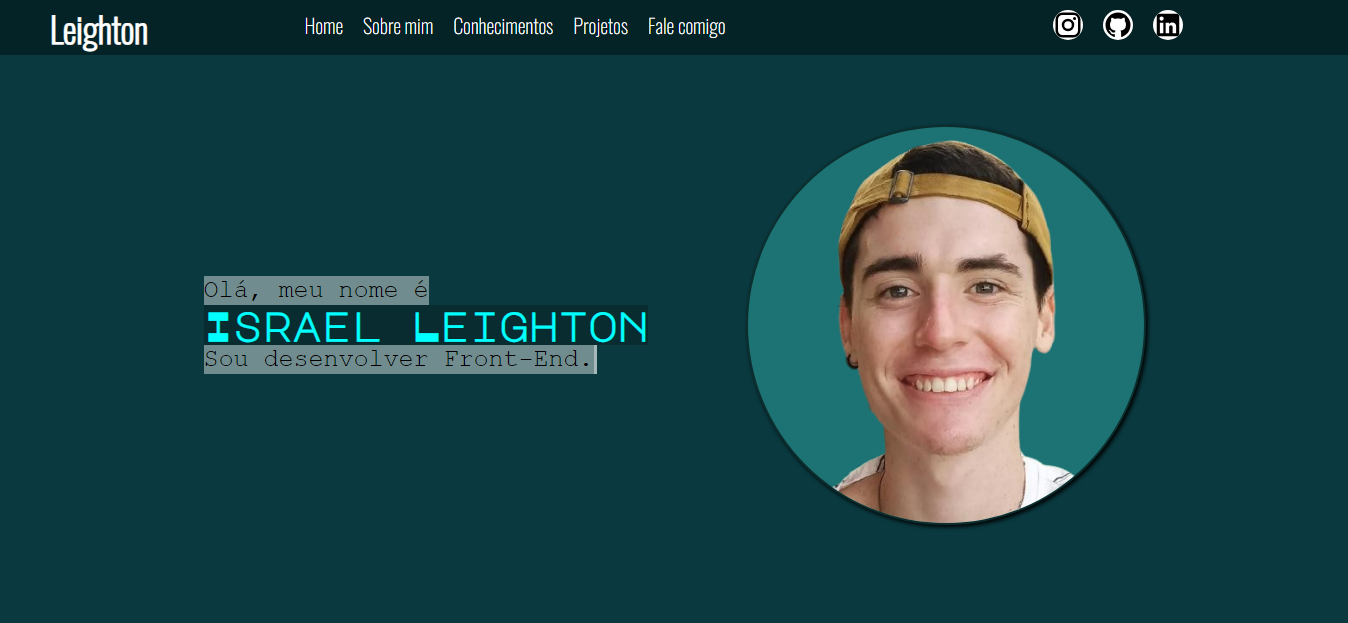
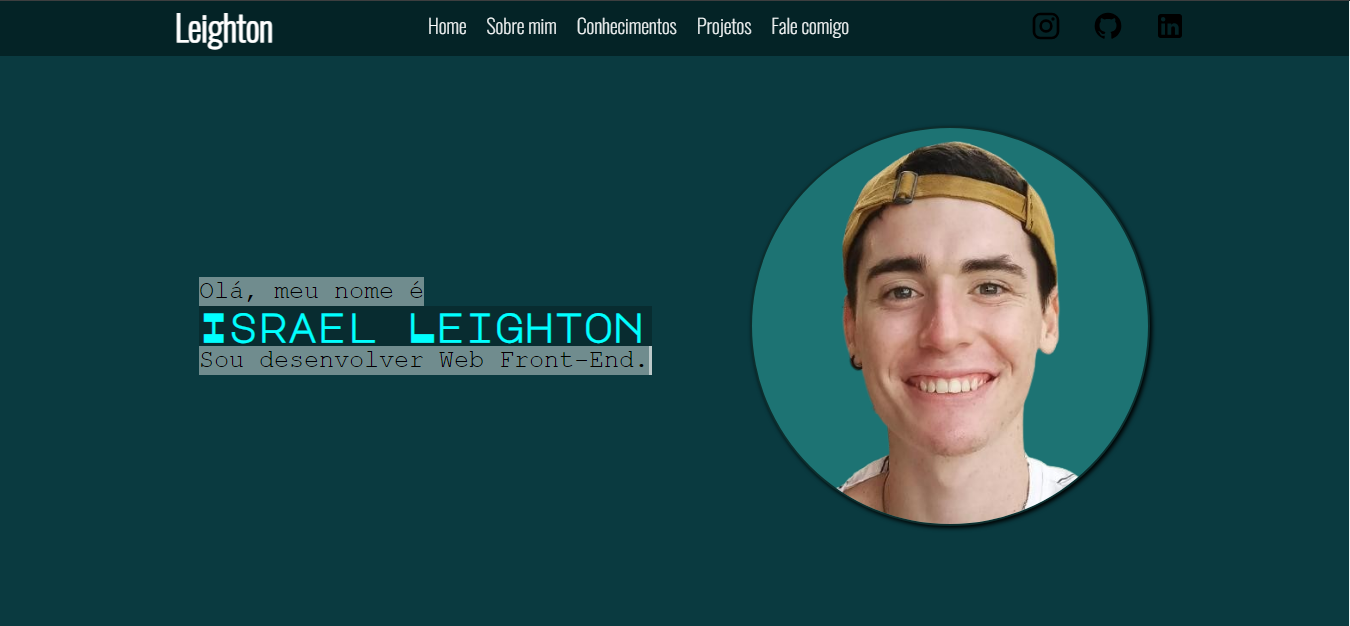
adição da seção de "fale comigo" e ajustes no codigo

diff --git a/index.html b/index.html
@@ -4,15 +4,15 @@
     <meta charset="UTF-8">
     <meta http-equiv="X-UA-Compatible" content="IE=edge">
     <meta name="viewport" content="width=device-width, initial-scale=1.0">
-    <title>Porifólio Leighton</title>
+    <title>Porifólio - Israel   Leighton</title>
     <link href="https://fonts.googleapis.com/icon?family=Material+Icons" rel="stylesheet">
     <link href="https://cdn.jsdelivr.net/npm/@mdi/font@7.2.96/css/materialdesignicons.min.css">
+    <link rel="stylesheet" href="https://fonts.googleapis.com/css2?family=Material+Symbols+Outlined:opsz,wght,FILL,GRAD@48,400,0,0" />
     <link rel="stylesheet" href="style/style.css">
 </head>
 <body>
     <main>
         <header>
-            
             <menu class="menu">
                 <a href="#home" id="logo2">Leighton</a>
                 <nav id="menuBurguer">
@@ -25,9 +25,9 @@
                         <li><a href="#fale_comigo">Fale comigo</a></li>
                     </ul>
                     <ul id="redeSocial">
-                        <li><a href="https://www.instagram.com/israel_leighton/" target="_blank"><img src="images/instagram.svg" alt=""></a></li>
-                        <li><a href="https://github.com/leightonisrael" target="_blank"><img src="images/github.svg" alt="link github"></a></li>
-                        <li><a href="https://br.linkedin.com/in/israel-hall-leighton" target="_blank"> <img src="images/linkedin.svg" alt=""></a></li>
+                        <li><a href="https://www.instagram.com/israel_leighton/" target="_blank"><img id="instagram" src="images/instagram.svg" alt="logo do instagram"></a></li>
+                        <li><a href="https://github.com/leightonisrael" target="_blank"><img id="github" src="images/github.svg" alt="logo do github"></a></li>
+                        <li><a href="https://br.linkedin.com/in/israel-hall-leighton" target="_blank"> <img id="linkedin" src="images/linkedin.svg" alt="logo do linkedin"></a></li>
                     </ul>
                 </nav>
                 <span id="burguer" class="material-icons" onclick="clickMenu()" >menu</span>
@@ -104,12 +104,15 @@
                         <img src="images/portifolio.png" alt="Imagem do meu portifólio pessoal">
                     </div>
                     <div>
-                        <h4> HTML - CSS - JS </h4>
+                        <div id="link-titulo">
+                            <a href="https://github.com/leightonisrael/portifolio" target="_blank"><span class="material-symbols-outlined">code</span></a>
+                            <h4> HTML - CSS - JS </h4>
+                            <a href="https://portifolio-leightonisrael.vercel.app/" target="_blank"><span class="material-symbols-outlined" >visibility</span></a>
+                        </div>
                         <p>Meu portifólio pessoal criado para me apresentar e apresentar alguns de meus projetos.</p>
                     </div>
                 </div>
             
-
             
                 <div id="card">
                     <h3>
@@ -119,7 +122,11 @@
                         <img src="images/login-page.png" alt="Imagem de uma página de login criada por mim.">
                     </div>
                     <div>
-                        <h4> HTML - CSS </h4>
+                        <div id="link-titulo">
+                            <a href="https://github.com/leightonisrael/login-html-css" target="_blank"><span class="material-symbols-outlined">code</span></a>
+                            <h4> HTML - CSS </h4>
+                            <a href="https://leightonisrael.github.io/login-html-css/" target="_blank"><span class="material-symbols-outlined">visibility</span></a>
+                        </div>
                         <p>Página de login criada por mim baseado no projeto do curso de HTML e CSS do Prof. Gustavo Guanabara.</p>
                     </div>
                 </div>
@@ -132,7 +139,11 @@
                         <img src="images/curiosidades.png" alt="Imagem do site de curiosidades do bugdroid">
                     </div>
                     <div>
-                        <h4> HTML - CSS </h4>
+                        <div id="link-titulo">
+                            <a href="https://github.com/leightonisrael/android-html-css" target="_blank"><span class="material-symbols-outlined">code</span></a>
+                            <h4> HTML - CSS </h4>
+                           <a href="https://leightonisrael.github.io/android-html-css/" target="_blank"> <span class="material-symbols-outlined">visibility</span></a>
+                        </div>
                         <p>Página de Curiosidades sobre o Android criada por mim baseado no projeto do curso de HTML e CSS do Prof. Gustavo Guanabara.</p>
                     </div>
                 </div>
@@ -143,10 +154,42 @@
                     <div id="gif">
                     </div>
                     <div>
-                        <p> Aprendizado constante para ser o que eu venero.</p>
+                        <p> Aprendizado constante para virar o que almejo.</p>
                     </div>
                 </div>
             </div>
+        </section>
+
+        <section id="fale_comigo">
+            <div id="contato">
+                <aside>
+                    <h2>Fale comigo!</h2>
+                    <nav>
+                        <a href="mailto: leightonisrael2014@gmail.com" title="Enviar e-mail">
+                            <div id="email">
+                                <img src="images/email.svg" alt="Icone do Email">
+                                <p>
+                                leightonisrael2014@gmail.com
+                                </p>
+                            </div>
+                        </a>
+
+                        <a href="https://t.me/IsraelLeighton" target="_blank">
+                            <div id="telegram">
+                                <img src="images/telegram.svg" alt="Icone do Telegram">
+                                <p>
+                                    Telegram
+                                </p>
+                            </div>
+                        </a>
+                    </nav>
+                </aside>
+                <figure>
+                    <img src="images/celular.png" alt="Celular Imagem">
+                </figure>
+            </div>
+            
+            
         </section>
     </main>
     <script src="script/main.js"></script>

diff --git a/style/style.css b/style/style.css
@@ -96,14 +96,24 @@ body {
 #redeSocial > li > a > img {
     margin-left: 10px;
     margin-right: 10px;
-    background-color: white;
     border-radius: 50%;
 }
-
-#redeSocial > li > a > img:hover {
+#instagram:hover{
     transition: 600ms;
     transform: scale(1.1);
-    background-color: rgb(200, 200, 200);
+    background-color: #405DE6;
+}
+
+#github:hover{
+    transition: 600ms;
+    transform: scale(1.1);
+    background-color: white;
+}
+
+#linkedin:hover {
+    transition: 600ms;
+    transform: scale(1.1);
+    background-color:  #0e76a8 ;
 
 }
 
@@ -388,26 +398,59 @@ to {
     text-shadow: 1px 1px 1px black;
 }
 
-#card > div > h4 {
-    padding-top: 15px;
-    font-size: 25px;
-    text-shadow: 1px 1px 1px black;
-    text-align: center;
-    padding-bottom: 20px;
+#card > div img {
+    padding: 15px;
+    width: 100%;
+    height: 100%;
 }
 
-#card > div >p {
+
+#link-titulo {
+    display: flex;
+    justify-content: space-around;
+    padding-bottom: 10px;
+}
+
+
+#link-titulo h4 {
+    font-size: 20px;
+    text-shadow: 1px 1px 1px black;
+    text-align: center;
+    padding: 10px;
+}
+
+#link-titulo > a{
+    text-decoration: none;
+    color: white;
+    border-radius: 50%;
+    
+}
+
+#link-titulo > a:hover{
+    color: black;
+
+}
+
+#link-titulo > a > span {
+    background-color: #1D7373;
+    padding: 10px;
+    border-radius: 50%;
+    box-shadow: 0px 0px 2px black;
+}
+
+#link-titulo > a > span:hover{
+    background-color: white;
+    transition: 600ms;
+}
+
+
+#card > div > p {
     font-family: Georgia, 'Times New Roman', Times, serif;
     text-align: justify;
     padding-left: 20px;
     padding-right: 20px;
 }
 
-#card > div img {
-    padding: 15px;
-    width: 100%;
-    height: 100%;
-}
 
 #gif { 
     background-image: url('../images/loading.png!bw700');
@@ -419,6 +462,119 @@ to {
 }
 
 
+/*-------------------------------FALE COMIGO-----------------------------*/
+
+#fale_comigo {
+    
+    background-color: #0A3A40;
+    height: 100%;
+    width: 100%;
+    padding-top: 120px;
+    padding-bottom: 120px;
+
+}
+
+#contato {
+    display: flex;
+    flex-wrap: wrap;
+    justify-content: space-around;
+    gap: 100px;
+    
+}
+
+#contato > aside{
+    display: flex;
+    flex-direction: column;
+    justify-content: space-evenly;
+    gap: 30px;
+    
+    
+    
+}
+
+#contato > aside > h2 {
+    font-size: 35px;
+    font-family: Georgia, 'Times New Roman', Times, serif; 
+    color: white;
+    text-shadow: 1px 1px 2px black;
+    text-align: center;
+}
+
+#contato > aside > nav {
+    display: flex;
+    flex-direction: column;
+    justify-content: space-evenly;
+    gap: 20px;
+}
+
+#contato > aside nav a {
+    text-decoration: none;
+    color: white;
+    text-shadow: 1px .5px 1px black;
+    font-weight: 500;
+}
+
+#contato > aside > nav > a > div {
+    height: 100px;
+    width: 300px;
+    background-color: #042326;
+    text-align: center;
+    align-items: center;
+    box-shadow: 2px 2px 4px black;
+    border: .5px solid rgba(0, 0, 0, 0.4);
+    border-radius: 5px;
+    transition: 600ms;
+}
+
+#contato > aside > nav > a > div:hover{
+    
+    transform: scale(1.01);
+    background-color: #228989;
+    transition: 600ms;
+    color: black;
+    
+}
+
+#telegram {
+    display: flex;
+    justify-content: space-around;
+}
+
+#telegram > p {
+    padding-right: 50px;
+}
+
+#email {
+    display: flex;
+    justify-content: space-around;
+}
+
+#email > img {
+    height: 48px;
+    width: 40px;
+}
+
+
+#contato > figure {
+    height: 400px;
+    width: 400px;
+    
+}
+
+#contato > figure > img {
+    background-color: #1D7373;
+    border-radius: 50%;
+    height: 100%;
+    width: 100%;
+    box-shadow: 2px 2px 4px black;
+    transition: 600ms;
+}
+
+#contato > figure > img:hover{
+    transform: translateX(1%);
+    transition: 600ms;
+    background-color: #1d73737e;
+}
 
 
 
@@ -696,4 +852,38 @@ to {
     #gif {
         margin-left: 45px ;
     }
+
+    #contato > figure {
+        height: 300px;
+        width: 300px;
+        
+    }
+    
+}
+
+@media screen and (max-width: 440px) {
+
+    #profile_text {
+        padding-right: 50px;
+    
+    }
+    #profile_text > h1 {
+        font-size: 25px;
+        
+    }
+    
+    #profile_text > span, #profile_text > p {
+        font-size: 13px;
+    }
+    
+    @keyframes typing {
+        from {
+            width: 0;
+        }
+        to {
+            width: 15rem;
+        }
+    }
+    
+   
 }
